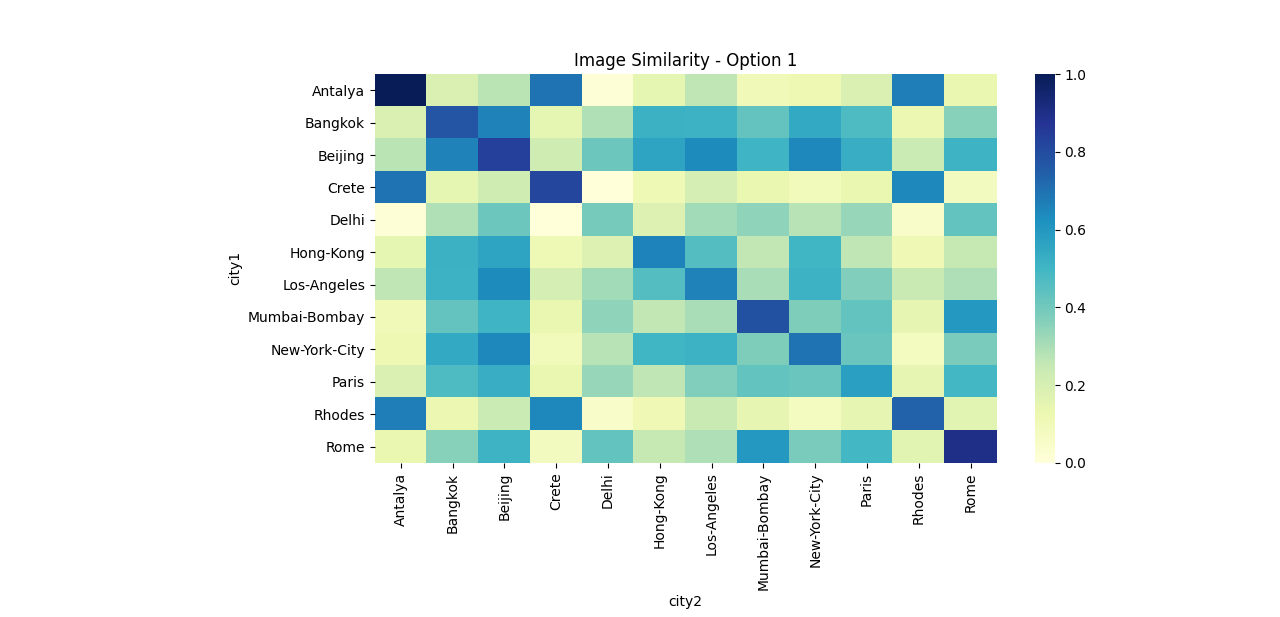
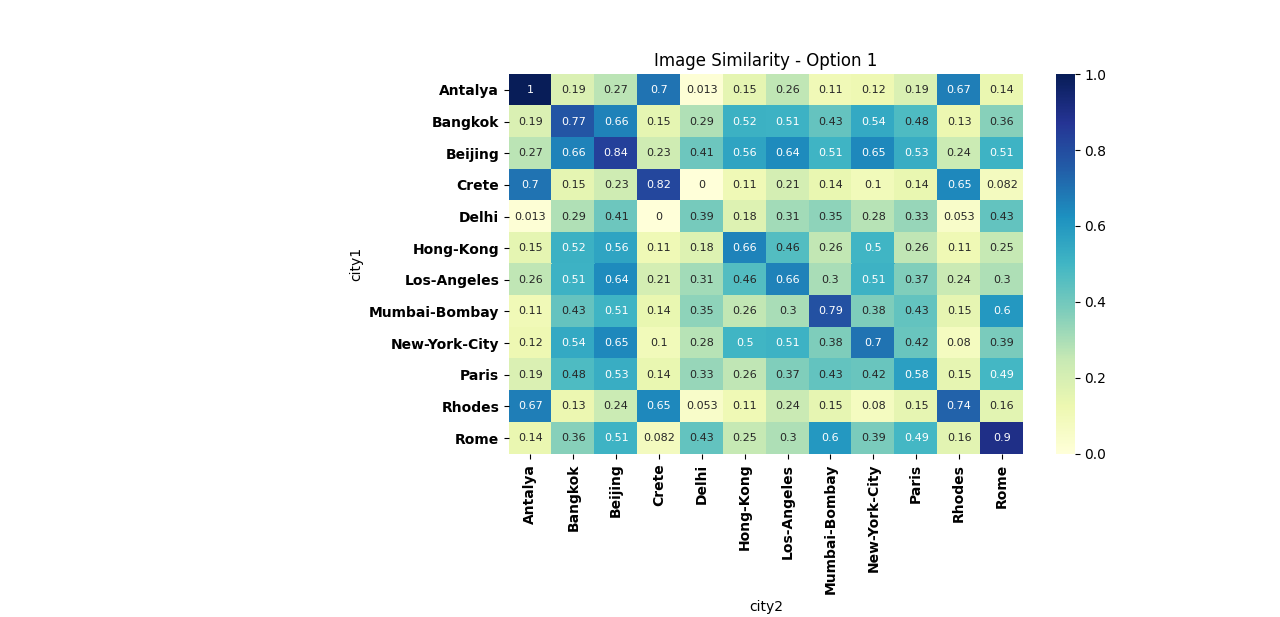
fix all heatmaps

diff --git a/imagesimop3.py b/imagesimop3.py
@@ -10,20 +10,21 @@ from sklearn.preprocessing import minmax_scale
 img2vec = Img2Vec()
 import glob
 import matplotlib.pyplot as plt
+
 NumPics = 20
 import pandas as pd
 from numpy import dot
 from numpy.linalg import norm
 
-vector_list= []
+vector_list = []
 cities = []
 similarity_heatmap_data = pd.DataFrame()
-citiesfinal= []
+citiesfinal = []
 # go through all cities pictures directories
 '''change to directory of images in your computer'''
 for filepath in glob.iglob(r'C:\Users\shova\Desktop\finalProject\im\*', recursive=True):
-    city=str(filepath)
-    city= city[39:]
+    city = str(filepath)
+    city = city[39:]
     cities.append(city)
     image_list = []
     # Go through all pictures in directory
@@ -33,18 +34,19 @@ for filepath in glob.iglob(r'C:\Users\shova\Desktop\finalProject\im\*', recursiv
     vectors = img2vec.get_vec(image_list)
     vector_list.append(vectors)
 # Make cosine similarity between vectors
-pic2pics=[]
-pic2city=[]
-city2city=[]
+pic2pics = []
+pic2city = []
+city2city = []
 for i in range(len(cities)):
     pic2city.clear()
     # for every pic in city i - make cosine similarity with all other pics from all cities
     for j in range(NumPics):
         pic2pics.clear()
         for k in range(len(cities)):
-            if(cities[i] != cities[k]):
+            if (cities[i] != cities[k]):
                 for l in range(NumPics):
-                    cos_sim = cosine_similarity(vector_list[i][j].reshape((1, -1)), vector_list[k][l].reshape((1, -1)))[0][0]
+                    cos_sim = \
+                    cosine_similarity(vector_list[i][j].reshape((1, -1)), vector_list[k][l].reshape((1, -1)))[0][0]
                     pic2pics.append((cities[k], l, cos_sim))
         # add similarity between pic j from city i to all other pics
         pic2city.append(pic2pics.copy())
@@ -73,6 +75,8 @@ for i in range(len(cities)):
     index = 0
     normalized_res = minmax_scale(score)
     for j in range(len(cities)):
+        if cities[i] == cities[j]:
+            normalized_res[index] = 1
         similarity_heatmap_data = similarity_heatmap_data.append(
             {
                 'similarity': normalized_res[index],
@@ -81,9 +85,13 @@ for i in range(len(cities)):
             },
             ignore_index=True
         )
-        print(normalized_res[index])
-        index= index+1
+        index = index + 1
+
 similarity_heatmap = similarity_heatmap_data.pivot(index="city1", columns="city2", values="similarity")
-ax = sns.heatmap(similarity_heatmap, cmap="YlGnBu",vmin=0, vmax=1)
+ax = sns.heatmap(similarity_heatmap, cmap="YlGnBu", vmin=0, vmax=1, annot=True, annot_kws={'size': 8})
 plt.title("Image Similarity - Option 3")
+for label1 in ax.get_yticklabels():
+    label1.set_weight('bold')
+for label2 in ax.get_xticklabels():
+    label2.set_weight('bold')
 plt.show()

diff --git a/finalScore.py b/finalScore.py
@@ -3,6 +3,8 @@ from statistics import stdev
 import pandas as pd
 import matplotlib.pyplot as plt
 import seaborn as sns
+from sklearn.preprocessing import minmax_scale
+
 
 def main():
     similarity_heatmap_mean = pd.DataFrame()
@@ -12,18 +14,12 @@ def main():
     cities = []
     [cities.append(x) for x in cities_dup if x not in cities]
     city = 0
+    res = []
     for i in range(len(cities)):
         for j in range(len(cities)):
             answerTo = df['Answer.to' + cities[j]].tolist()
-            mean = sum(answerTo[city*10 : (city+1)*10]) / 70
-            similarity_heatmap_mean = similarity_heatmap_mean.append(
-                {
-                    'mean': mean,
-                    'city1': cities[i],
-                    'city2': cities[j]
-                },
-                ignore_index=True
-            )
+            mean = sum(answerTo[city*10 : (city+1)*10]) / 10
+            res.append(mean)
             std = stdev(answerTo[city * 10: (city + 1) * 10])
             similarity_heatmap_dev = similarity_heatmap_dev.append(
                 {
@@ -35,12 +31,31 @@ def main():
             )
         city = city + 1
 
+    index = 0
+    normalized_res = minmax_scale(res)
+    for i in range(len(cities)):
+        for j in range(len(cities)):
+            similarity_heatmap_mean = similarity_heatmap_mean.append(
+                {
+                    'mean': normalized_res[index],
+                    'city1': cities[i],
+                    'city2': cities[j]
+                },
+                ignore_index=True
+            )
+            index = index + 1
+
+
     print(similarity_heatmap_mean)
     print(similarity_heatmap_dev)
 
     similarity_heatmap = similarity_heatmap_mean.pivot(index="city1", columns="city2", values="mean")
-    ax = sns.heatmap(similarity_heatmap, cmap="YlGnBu", vmin=0, vmax=1)
+    ax = sns.heatmap(similarity_heatmap, cmap="YlGnBu", vmin=0, vmax=1, annot=True, annot_kws={'size': 8})
     plt.title("results turkers - mean")
+    for label1 in ax.get_yticklabels():
+        label1.set_weight('bold')
+    for label2 in ax.get_xticklabels():
+        label2.set_weight('bold')
     plt.show()
 
 if __name__ == '__main__':

diff --git a/imagesimop2.py b/imagesimop2.py
@@ -108,20 +108,10 @@ for i in range(len(cities)):
        # city2city.append(pic2city.copy())
 # plot sims/ set results
 similarity_heatmap = similarity_heatmap_data.pivot(index="city1", columns="city2", values="similarity")
-ax = sns.heatmap(similarity_heatmap, cmap="YlGnBu", vmin=0, vmax=1)
+ax = sns.heatmap(similarity_heatmap, cmap="YlGnBu", vmin=0, vmax=1, annot=True, annot_kws={'size': 8})
 plt.title("Image Similarity - Option 2")
+for label1 in ax.get_yticklabels():
+    label1.set_weight('bold')
+for label2 in ax.get_xticklabels():
+    label2.set_weight('bold')
 plt.show()
-
-
-
-
-
-
-
-
-
-
-#city2city[i][k].max()  for i in range(len(city2city)):
-# def normalize(lst):
-#     s = sum(lst)
-#     return map(lambda x: float(x)/s, lst)

diff --git a/imgsimop1.py b/imgsimop1.py
@@ -72,19 +72,12 @@ for i in range(len(cities)):
         )
         index = index+1
 
-
-
-
 # plot sims/ set results
 similarity_heatmap = similarity_heatmap_data.pivot(index="city1", columns="city2", values="similarity")
-ax = sns.heatmap(similarity_heatmap, cmap="YlGnBu", vmin=0, vmax=1)
+ax = sns.heatmap(similarity_heatmap, cmap="YlGnBu", vmin=0, vmax=1, annot=True, annot_kws={'size': 8})
 plt.title("Image Similarity - Option 1")
+for label1 in ax.get_yticklabels():
+    label1.set_weight('bold')
+for label2 in ax.get_xticklabels():
+    label2.set_weight('bold')
 plt.show()
-
-
-
-
-#city2city[i][k].max()  for i in range(len(city2city)):
-# def normalize(lst):
-#     s = sum(lst)
-#     return map(lambda x: float(x)/s, lst)

diff --git a/image2vec.py b/image2vec.py
@@ -61,14 +61,10 @@ for i in range(len(cities)):
 
 # plot sims/ set results
 similarity_heatmap = similarity_heatmap_data.pivot(index="city1", columns="city2", values="similarity")
-ax = sns.heatmap(similarity_heatmap, cmap="YlGnBu",vmin=0, vmax=1)
+ax = sns.heatmap(similarity_heatmap, cmap="YlGnBu", vmin=0, vmax=1, annot=True, annot_kws={'size': 8})
 plt.title("Image Similarity - Our Option")
+for label1 in ax.get_yticklabels():
+    label1.set_weight('bold')
+for label2 in ax.get_xticklabels():
+    label2.set_weight('bold')
 plt.show()
-
-
-
-
-#city2city[i][k].max()  for i in range(len(city2city)):
-# def normalize(lst):
-#     s = sum(lst)
-#     return map(lambda x: float(x)/s, lst)

diff --git a/use.py b/use.py
@@ -108,6 +108,10 @@ for i in range(len(messages)):
 df.to_excel('10mostSimilarCities.xlsx')
 
 # visualize the results
-ax = sns.heatmap(similarity_heatmap, cmap="YlGnBu", vmin=0, vmax=1)
+ax = sns.heatmap(similarity_heatmap, cmap="YlGnBu", vmin=0, vmax=1, annot=True, annot_kws={'size': 8})
 plt.title("Text Similarity")
+for label1 in ax.get_yticklabels():
+    label1.set_weight('bold')
+for label2 in ax.get_xticklabels():
+    label2.set_weight('bold')
 plt.show()
